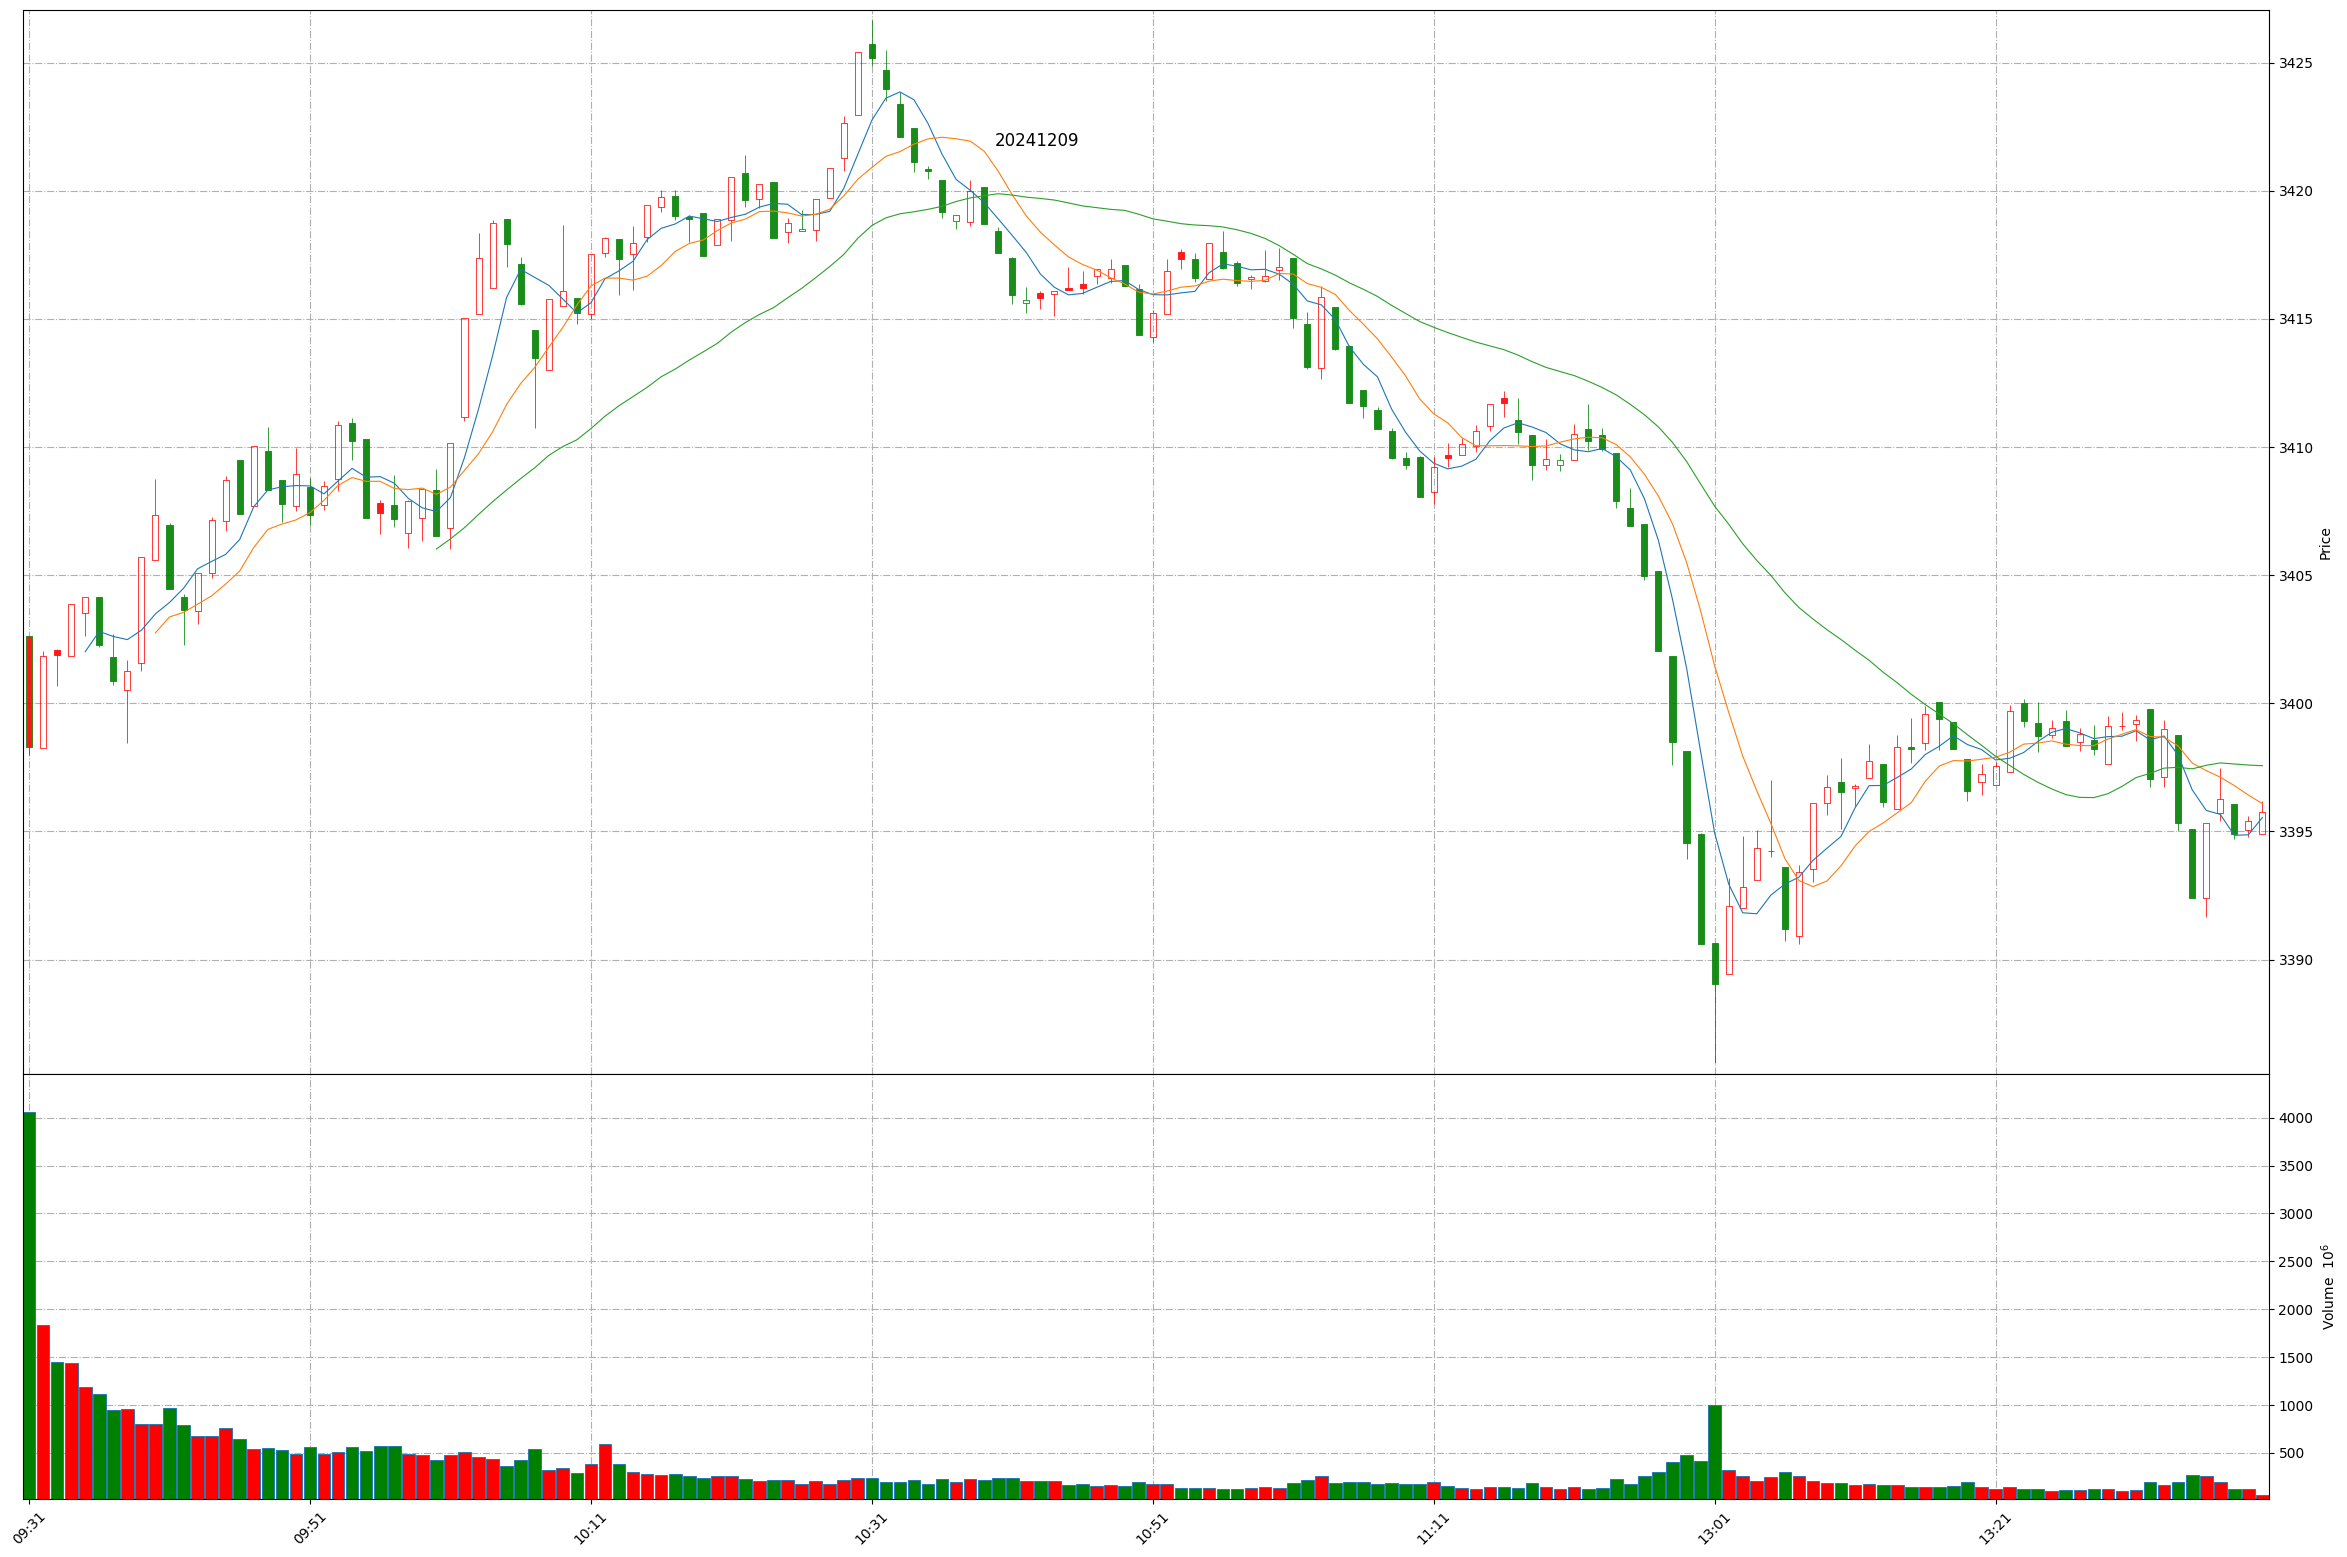
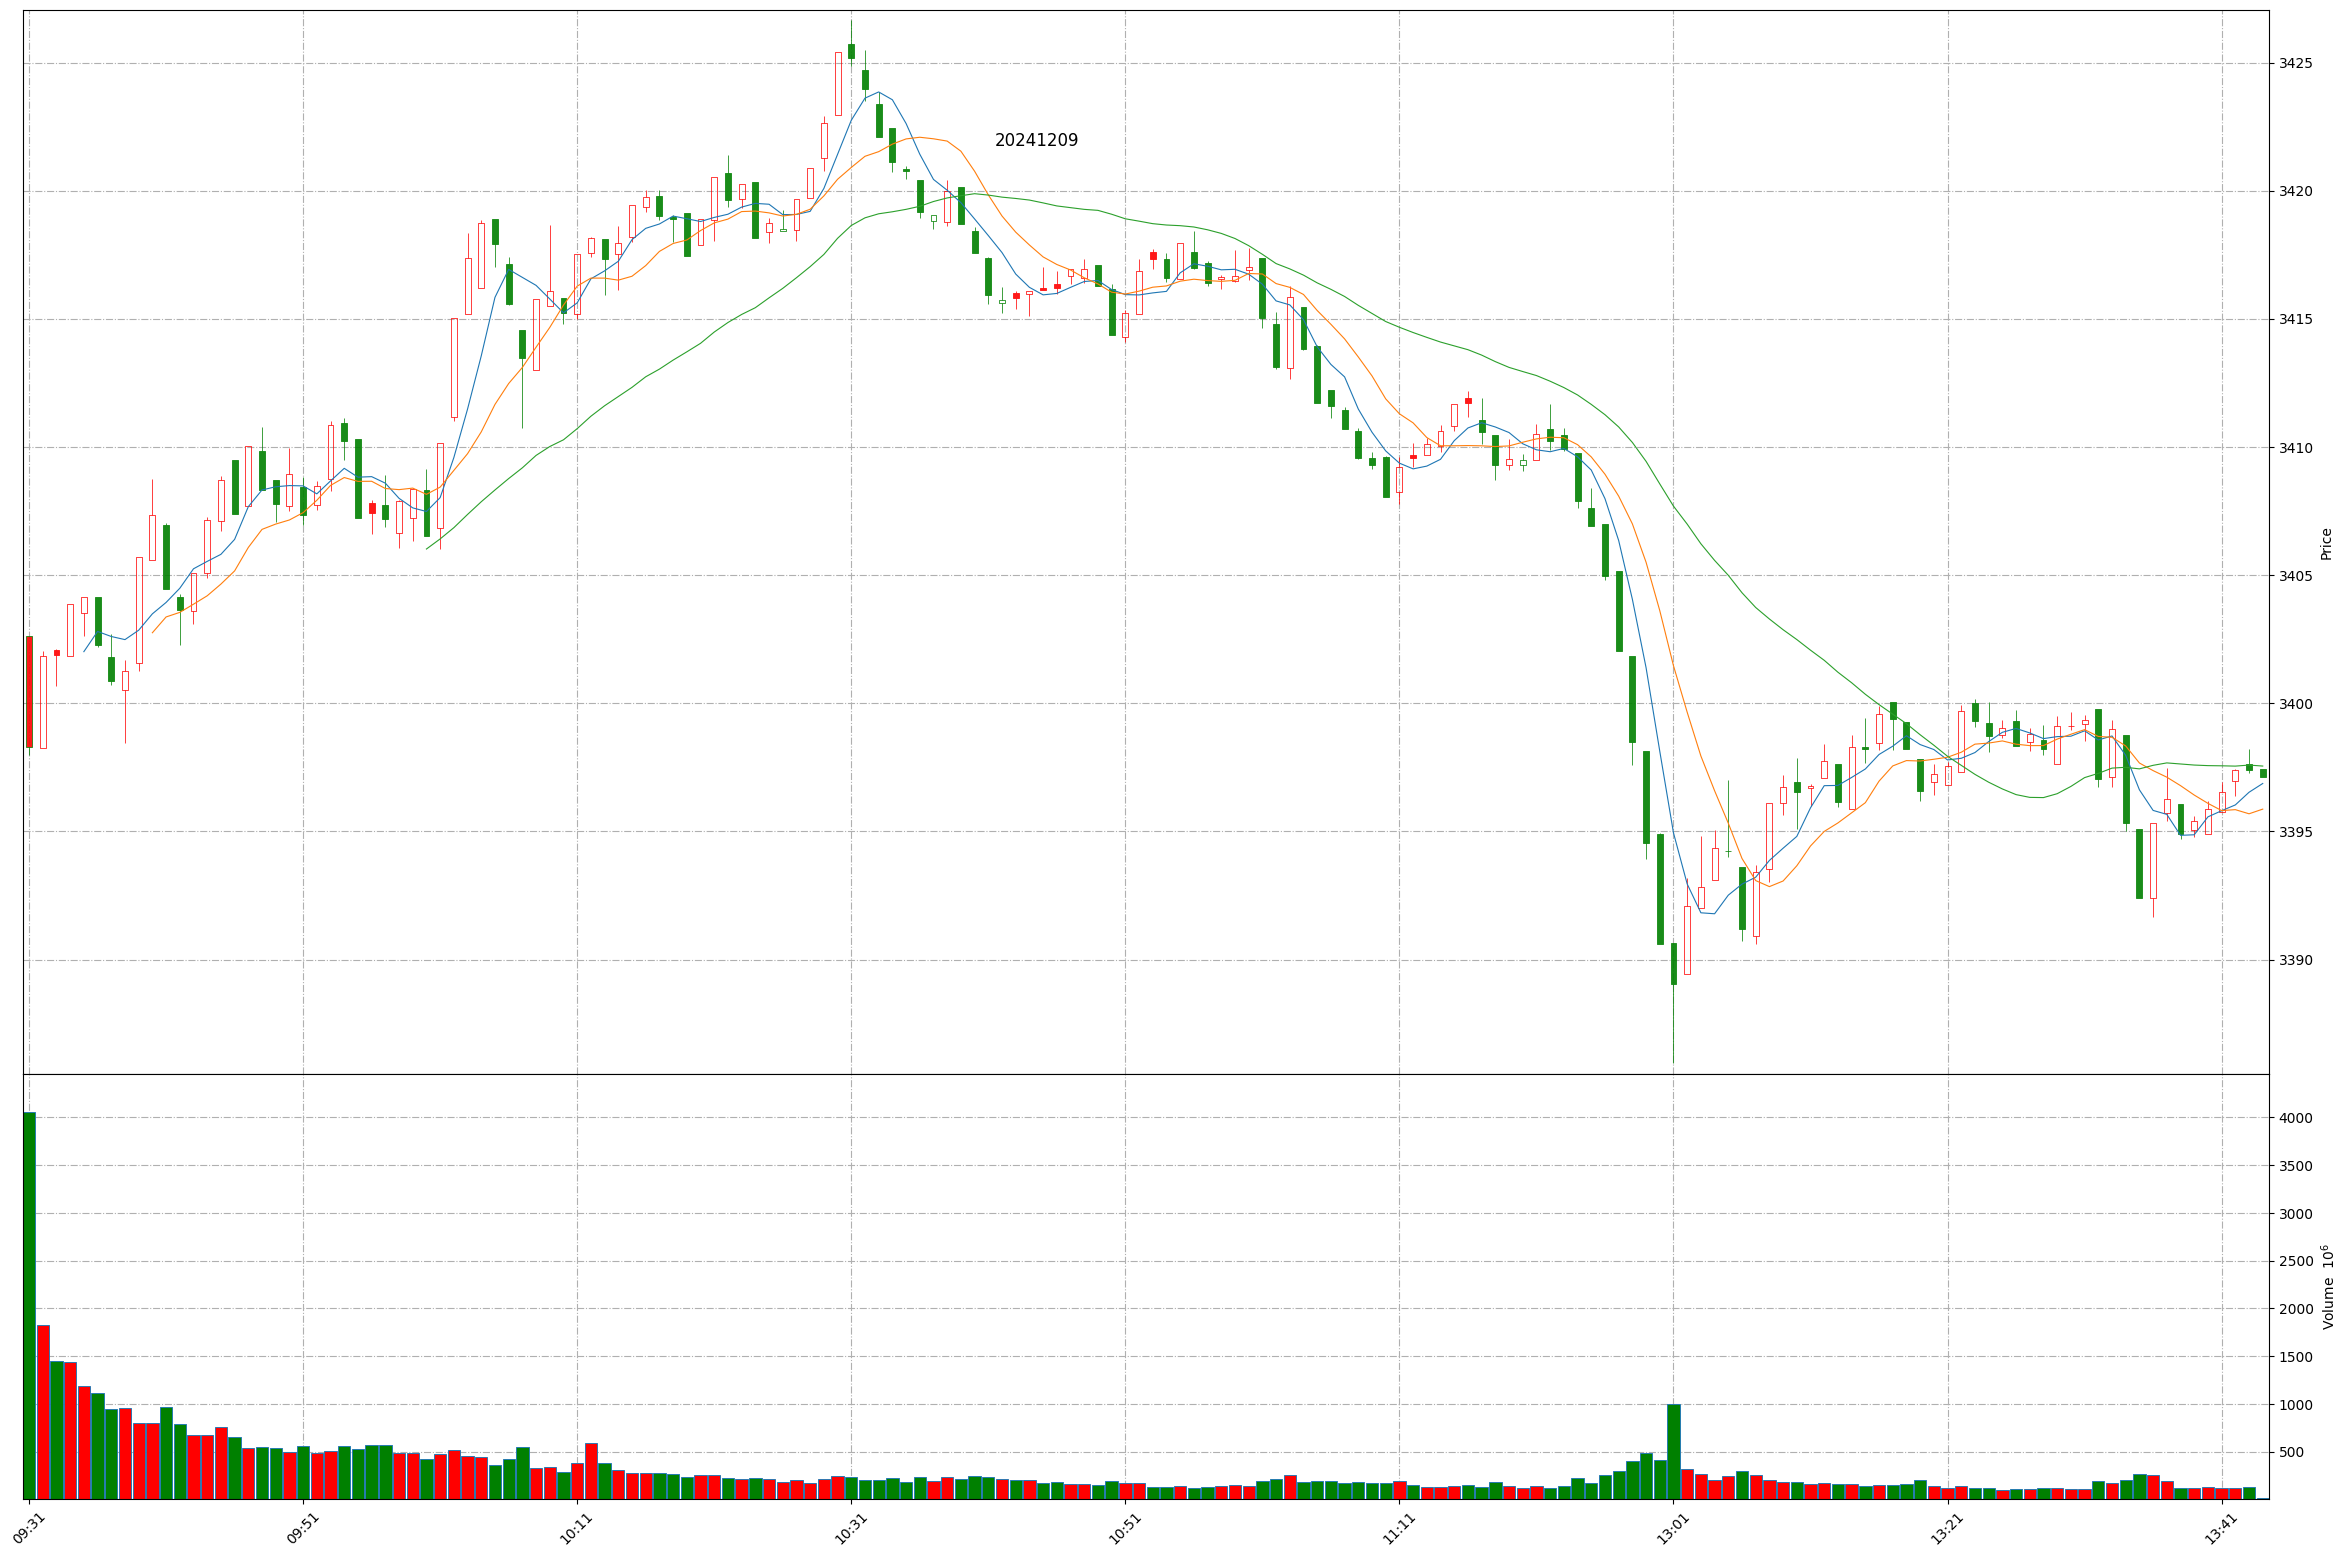
Github action update at 2024-12-09 13:43:33.

Changed region(s): [[0.0311, 0.0308, 0.9642, 0.6166], [0.0311, 0.894, 0.9642, 0.9865]]

diff --git a/README.md b/README.md
@@ -1,11 +1,11 @@
 
 # Daily-A-share-market-quotes 每日 A 股指数（5min 更新）- 20241209
 
-### 上证指数 20241209 13:39
+### 上证指数 20241209 13:43
 ![](./fig/2024/12/20241209-sh000001.png)
 
-### 深证成指 20241209 13:39
+### 深证成指 20241209 13:43
 ![](./fig/2024/12/20241209-sz399001.png)
 
-### 北证50 20241209 13:39
+### 北证50 20241209 13:43
 ![](./fig/2024/12/20241209-bj899050.png)
